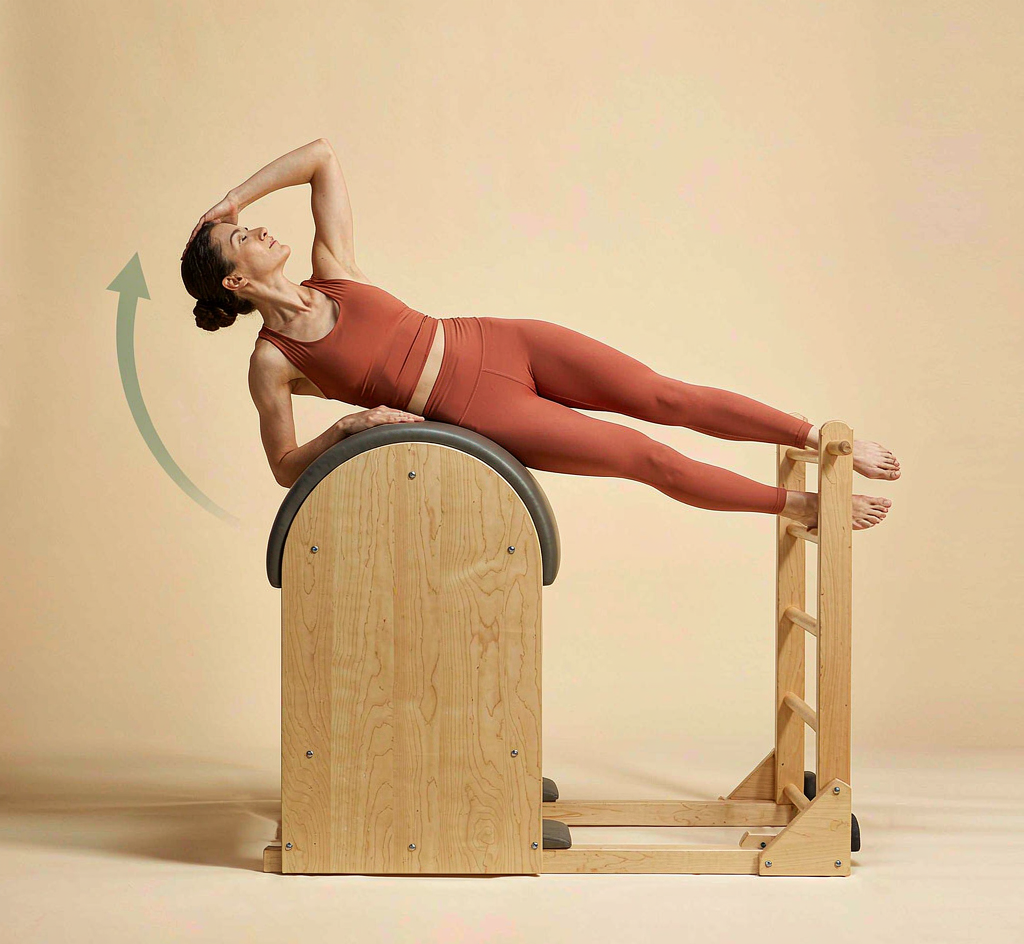
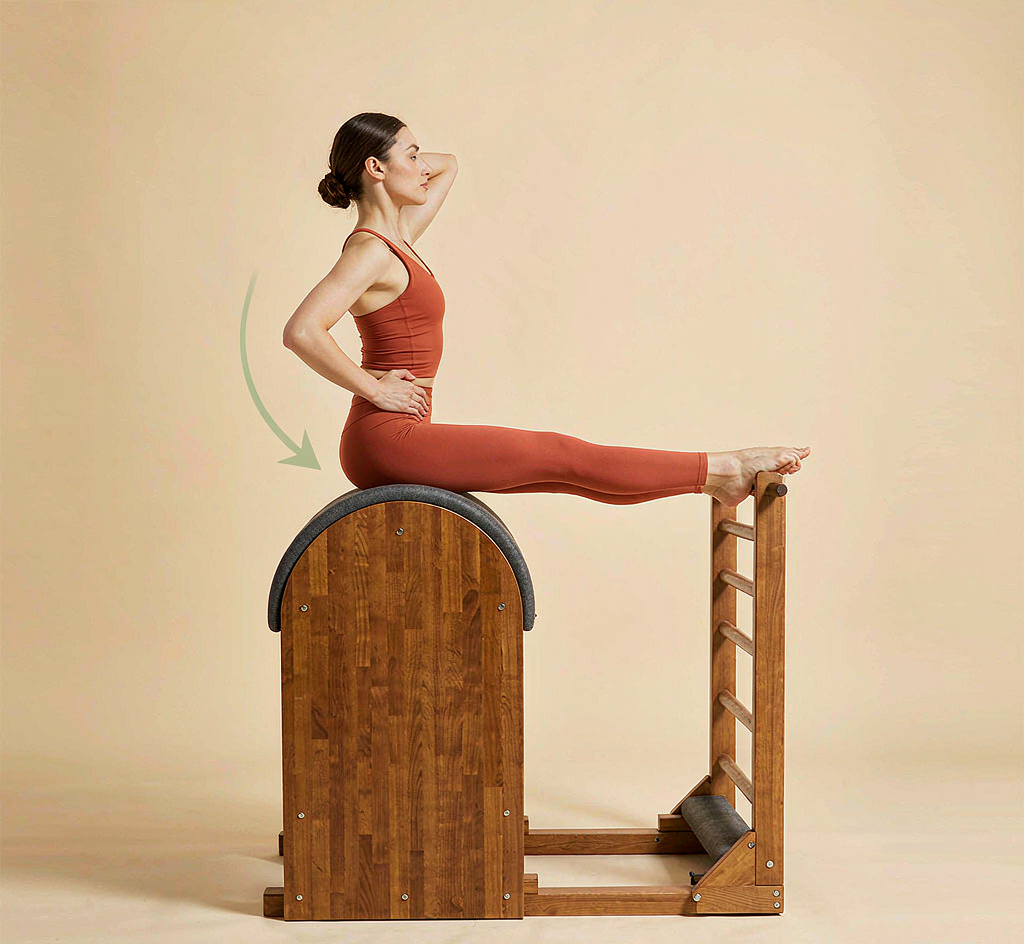
Remove Horseback from Ladder Barrel

diff --git a/src/App.tsx b/src/App.tsx
@@ -47,7 +47,7 @@ const matExtraExercises: Exercise[] = [
   ['Mat Mermaid', '垫上美人鱼式', 'mat-mermaid.png'],
 ].map(([en, zh, file], index) => ({ id: 230 + index, en, zh, image: assetUrl(`assets/mat-extra/${file}?v=1`), kind: '垫上' as const }))
 const extraSets: { kind: EquipmentKind; folder: string; names: [string, string][] }[] = [
-  { kind: 'Ladder Barrel', folder: 'ladder-barrel', names: [['Swan', '天鹅式'], ['Horseback', '马背式'], ['Ballet Stretch', '芭蕾伸展'], ['Side Sit Up', '侧坐起身'], ['Backward Stretch', '后弯伸展'], ['Short Box Round', '短箱圆背'], ['Tree', '树式'], ['Leg Circles', '腿部画圈'], ['Hamstring Stretch', '腿后侧伸展'], ['Hip Flexor Stretch', '髋屈肌伸展']] },
+  { kind: 'Ladder Barrel', folder: 'ladder-barrel', names: [['Swan', '天鹅式'], ['Ballet Stretch', '芭蕾伸展'], ['Side Sit Up', '侧坐起身'], ['Backward Stretch', '后弯伸展'], ['Short Box Round', '短箱圆背'], ['Tree', '树式'], ['Leg Circles', '腿部画圈'], ['Hamstring Stretch', '腿后侧伸展'], ['Hip Flexor Stretch', '髋屈肌伸展']] },
   { kind: '小器械', folder: 'small-apparatus', names: [['Magic Circle Chest Press', '普拉提圈胸推'], ['Supine Bent-Knee Magic Circle Inner Thigh Squeeze', '仰卧屈膝普拉提圈内收'], ['Magic Circle Bridge Squeeze', '普拉提圈桥式'], ['Magic Circle Overhead Press', '普拉提圈过顶推'], ['Magic Circle Side Leg Press', '普拉提圈侧腿推'], ['Magic Circle Teaser', '普拉提圈V形平衡'], ['Small Ball Ab Curl', '小球腹部卷曲'], ['Small Ball Bridge', '小球桥式'], ['Resistance Band Row', '弹力带划船'], ['Resistance Band Leg Press', '弹力带腿推'], ['Foam Roller Balance', '泡沫轴平衡'], ['Foam Roller Arm Arcs', '泡沫轴手臂画圈']] },
   { kind: 'Wunda Chair', folder: 'wunda-chair', names: [['Footwork', '脚步练习'], ['Pull Up', '上拉'], ['Going Up Front', '前侧上台'], ['Going Up Side', '侧向上台'], ['Mountain Climb', '登山式'], ['Swan Front', '前侧天鹅'], ['Mermaid', '美人鱼式'], ['Teaser', 'V形平衡'], ['Tendon Stretch', '肌腱伸展'], ['Pike', '折叠支撑'], ['Press Down', '下压'], ['Hamstring Stretch', '腿后侧伸展']] },
   { kind: 'Reformer', folder: 'reformer', names: [['Footwork', '脚步练习'], ['The Hundred', '百次呼吸'], ['Frog', '蛙式'], ['Leg Circles', '腿部画圈'], ['Short Spine', '短脊柱'], ['Long Stretch', '长伸展'], ['Elephant', '大象式'], ['Knee Stretches', '跪姿伸展'], ['Long Box Pulling Straps', '长箱拉绳'], ['Backstroke', '仰卧划水'], ['Teaser', 'V形平衡'], ['Mermaid', '美人鱼式']] },
@@ -297,7 +297,6 @@ const smallApparatusAlignedImages: Record<string, string> = {
 
 const ladderBarrelAlignedImages: Record<string, string> = {
   'Swan': 'assets/ladder-barrel/1.png?v=2',
-  'Horseback': 'assets/ladder-barrel/2.png?v=2',
   'Ballet Stretch': 'assets/ladder-barrel/3.png?v=2',
   'Side Sit Up': 'assets/ladder-barrel/4.png?v=2',
   'Backward Stretch': 'assets/ladder-barrel/5.png?v=2',
